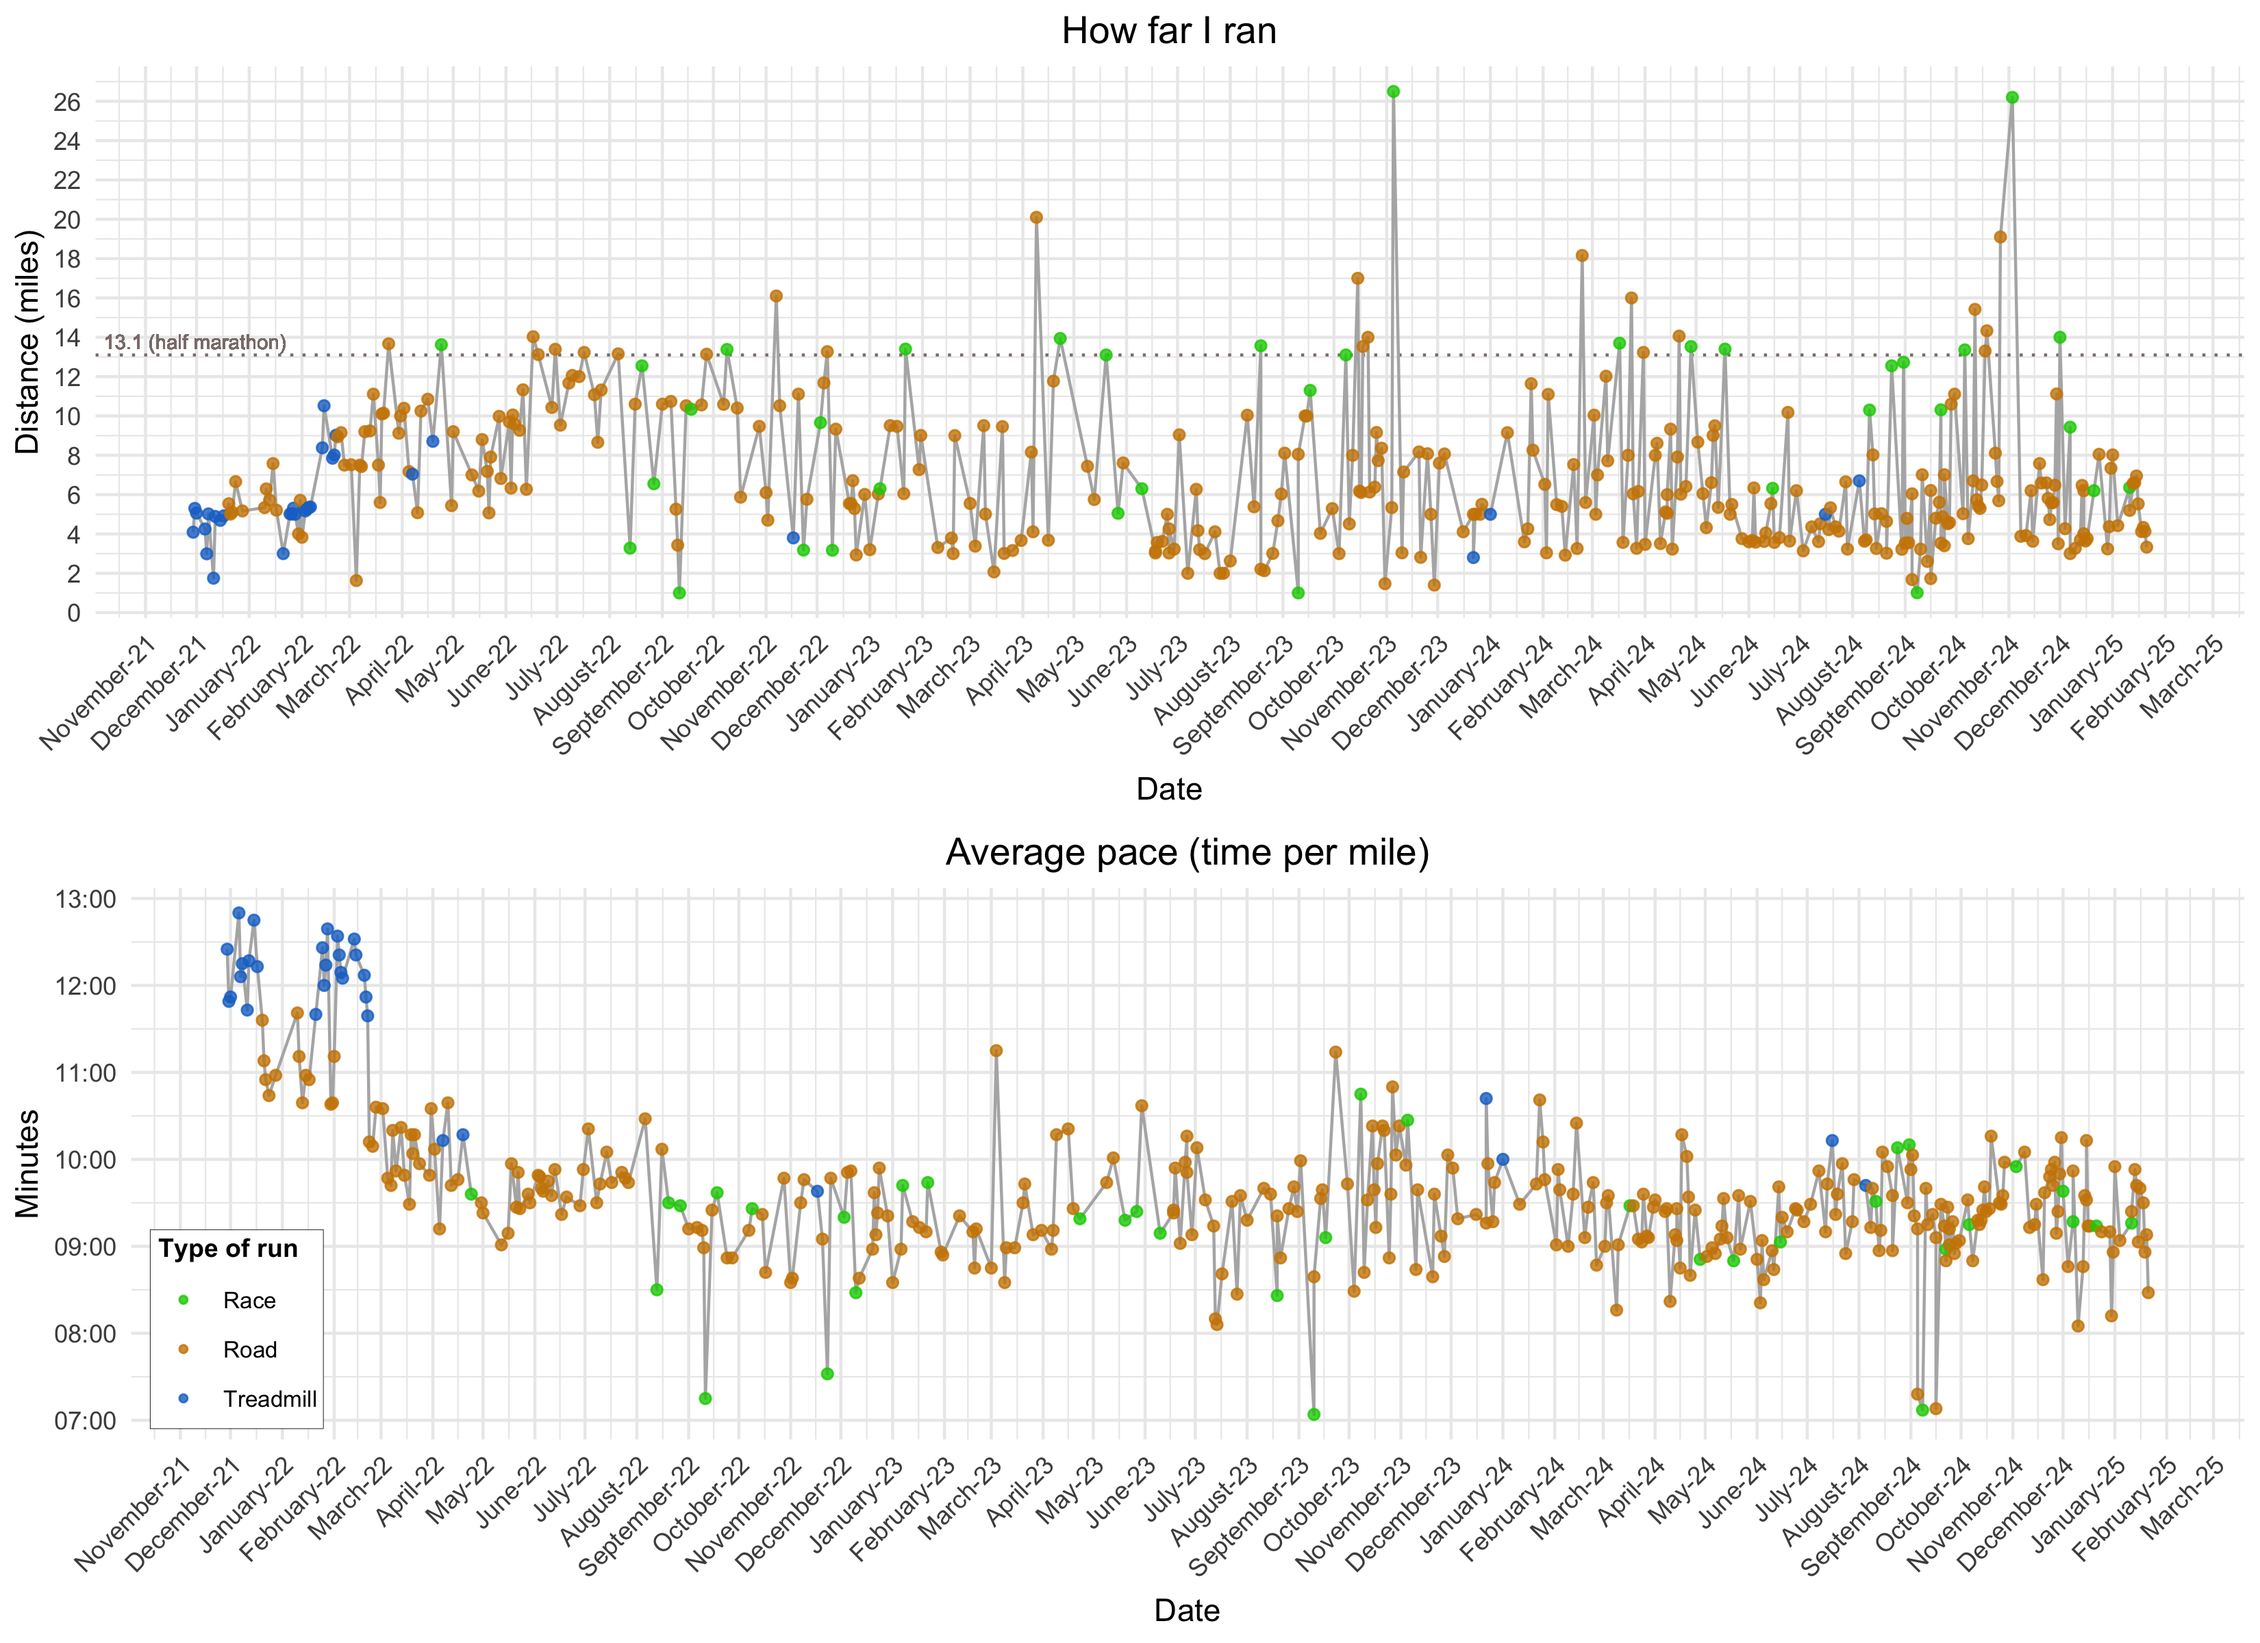
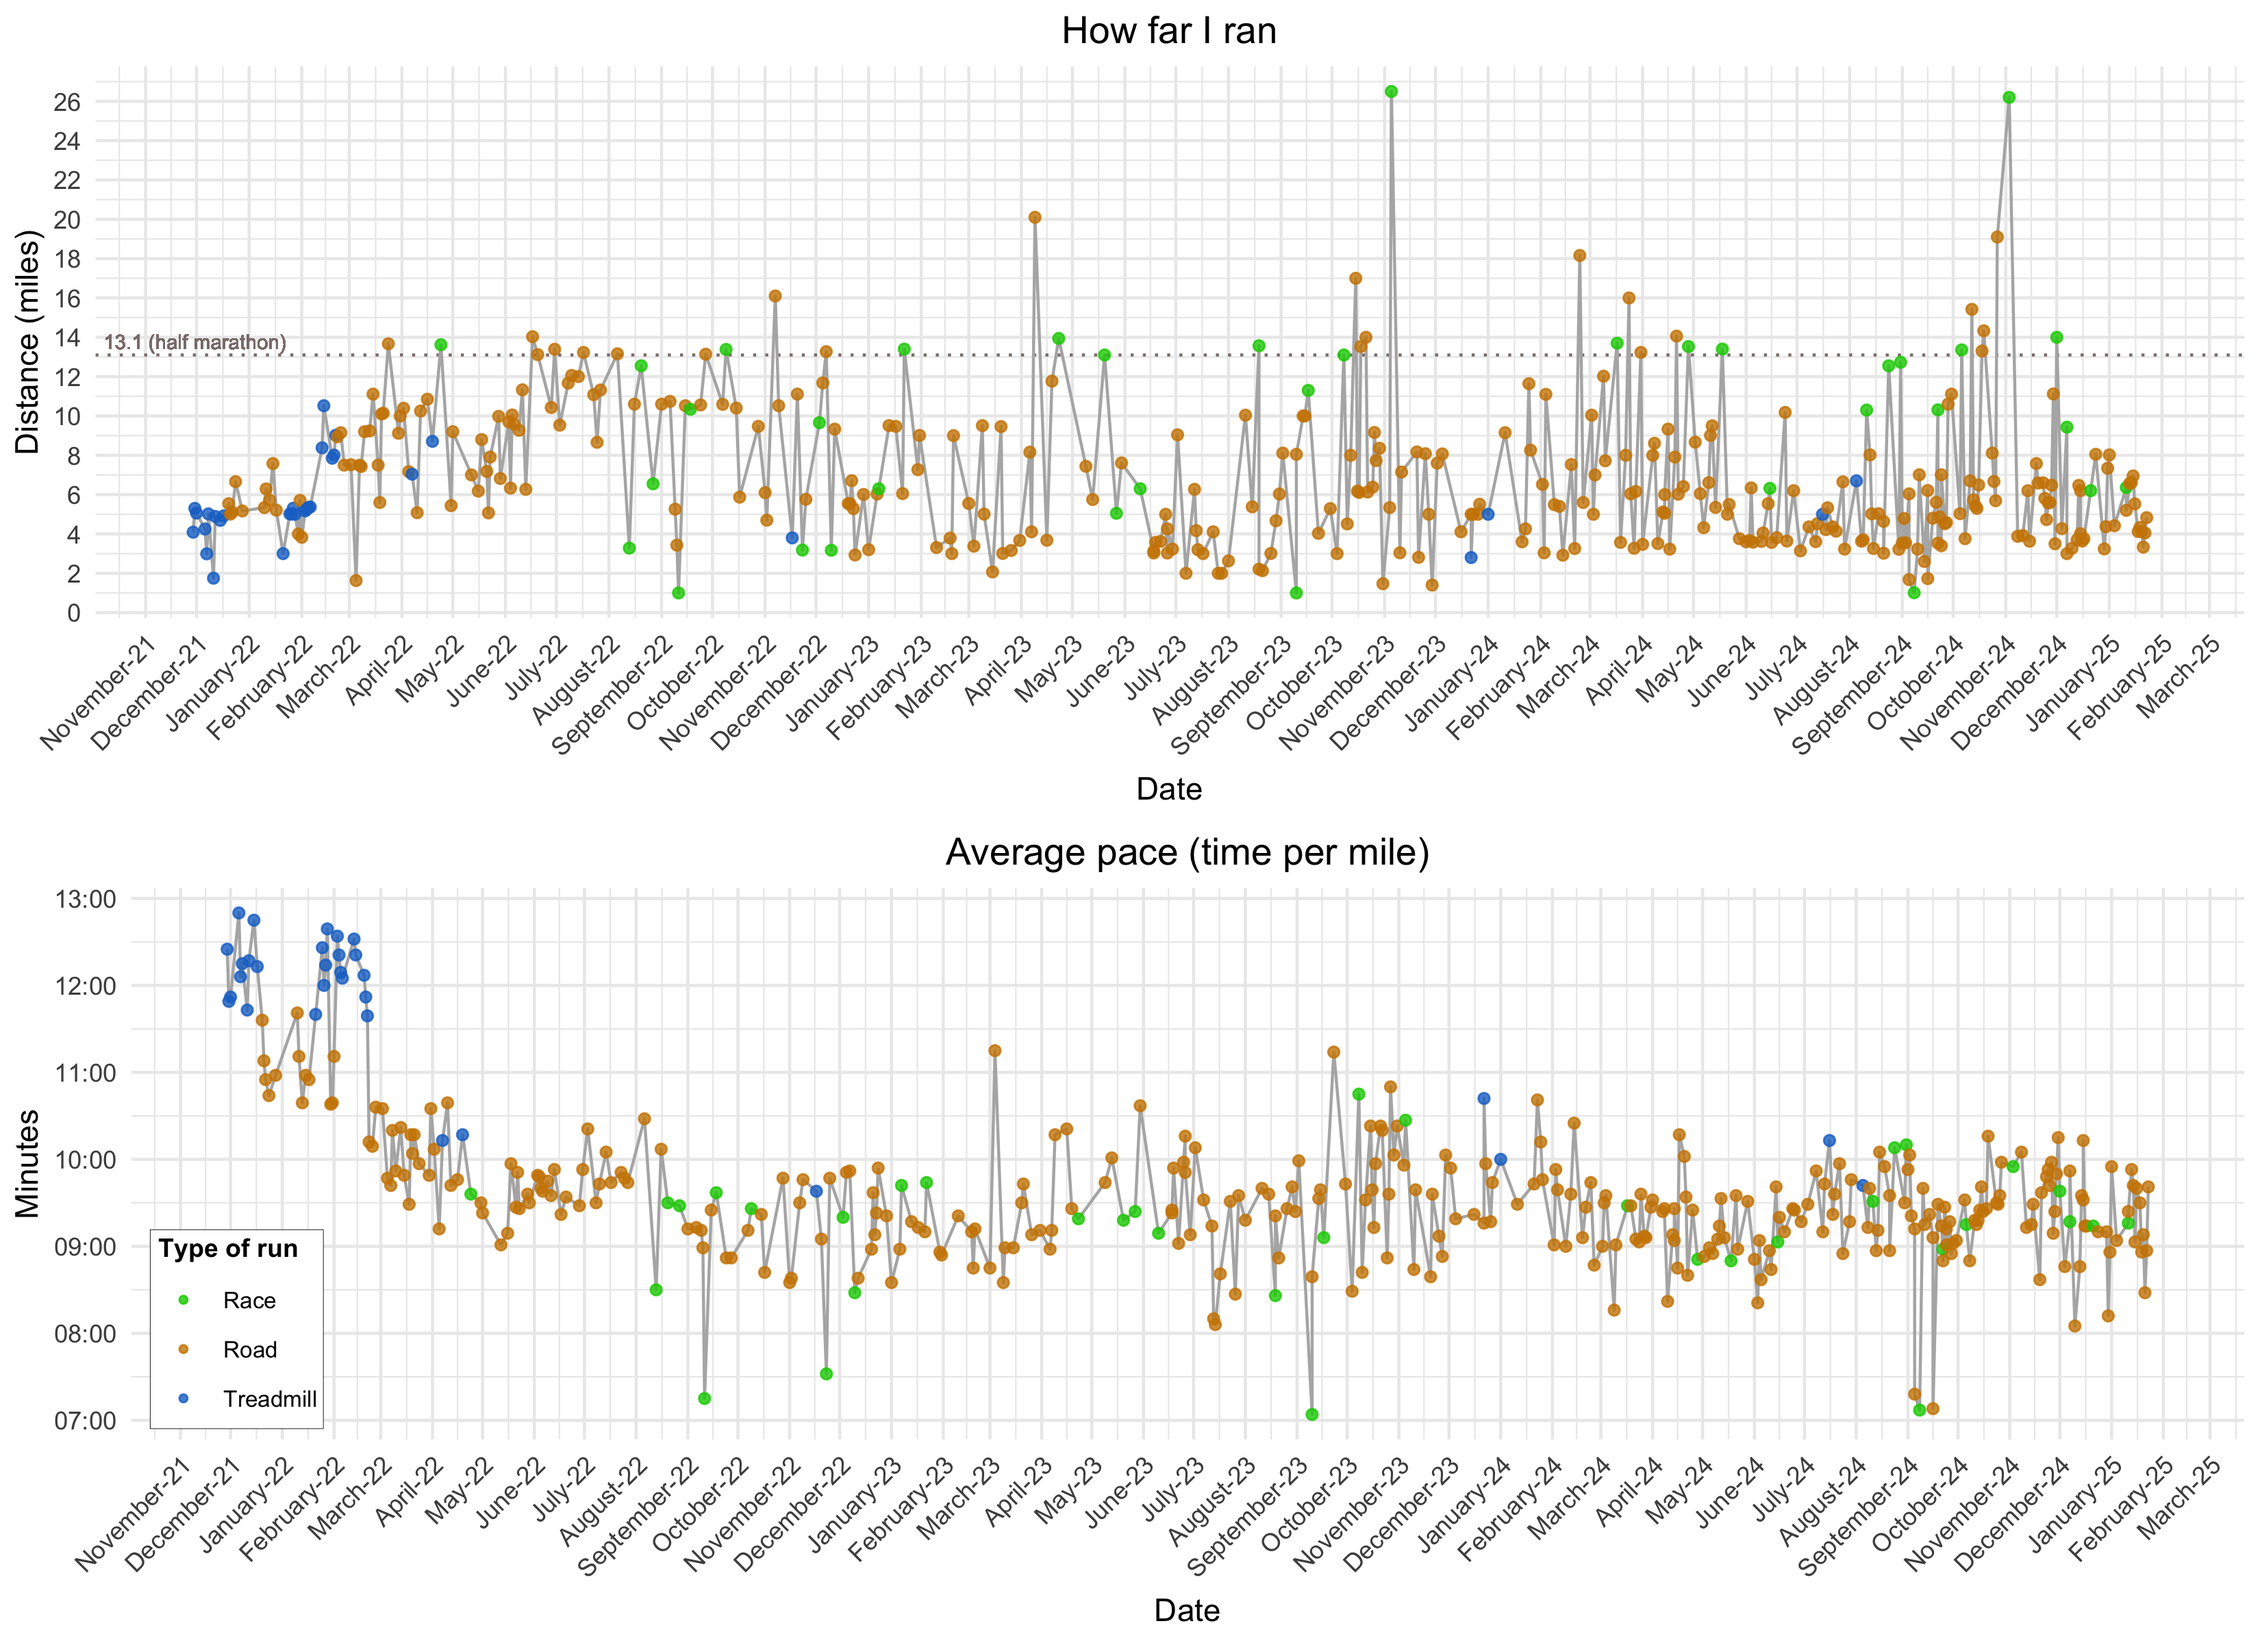
1/22/25, 1/23/25

diff --git a/README.md b/README.md
@@ -46,7 +46,7 @@ Total miles since 11/29/21:
 sum(runningData$Miles)
 ```
 
-    ## [1] 2762.55
+    ## [1] 2771.43
 
 Average distance over last ten runs:
 
@@ -54,4 +54,4 @@ Average distance over last ten runs:
 mean(tail(runningData$Miles, 10))
 ```
 
-    ## [1] 5.313
+    ## [1] 5.045
